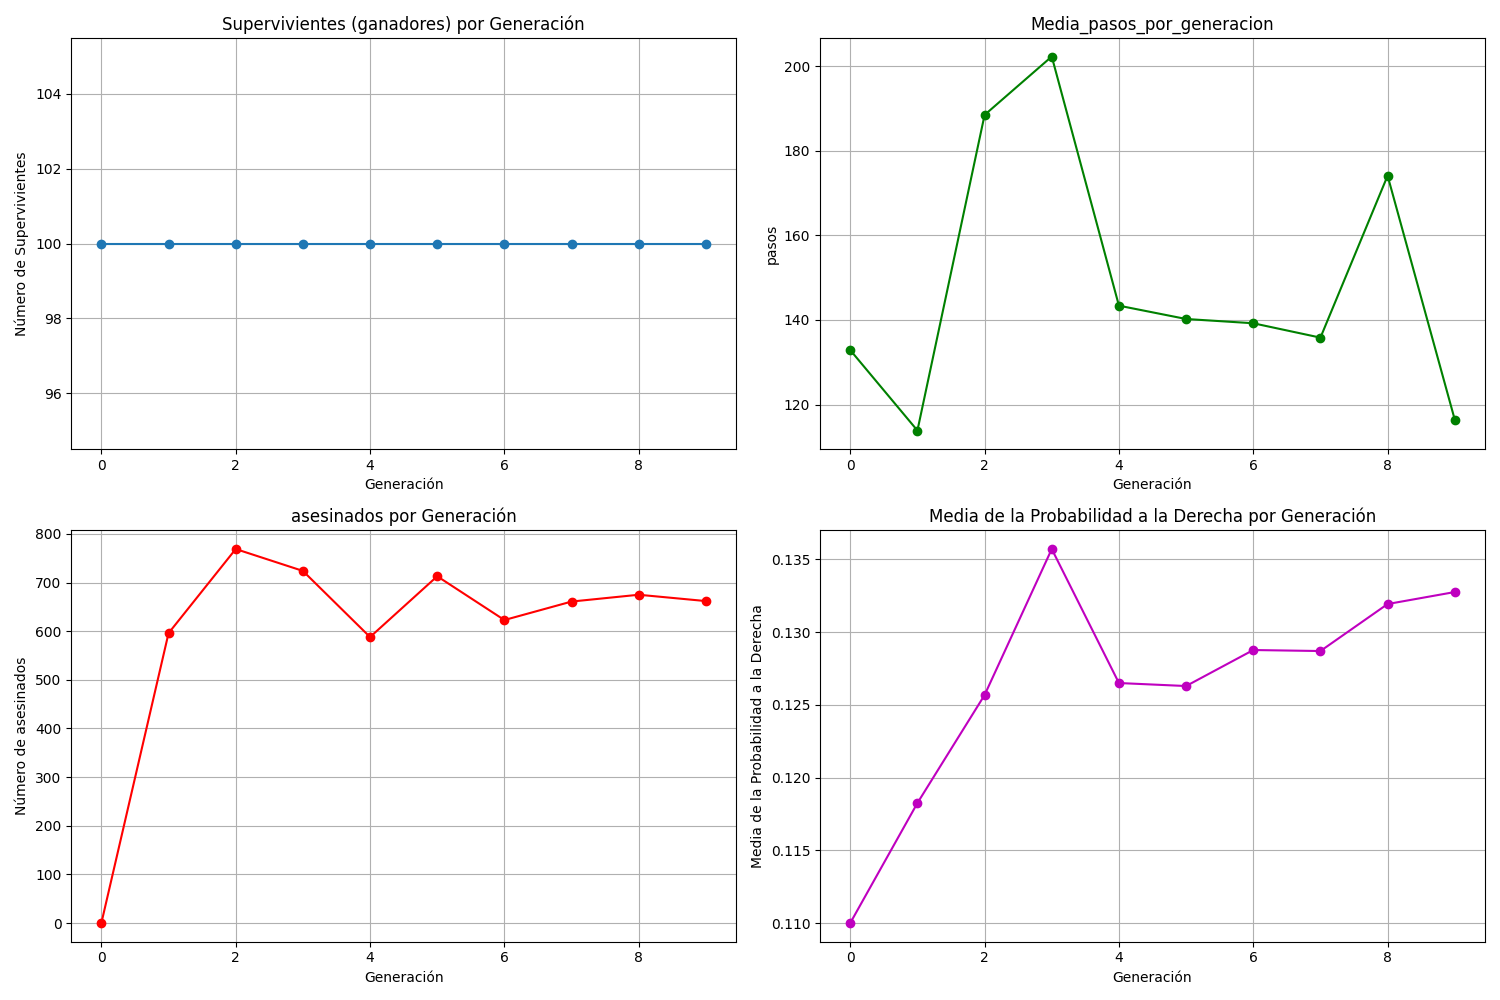
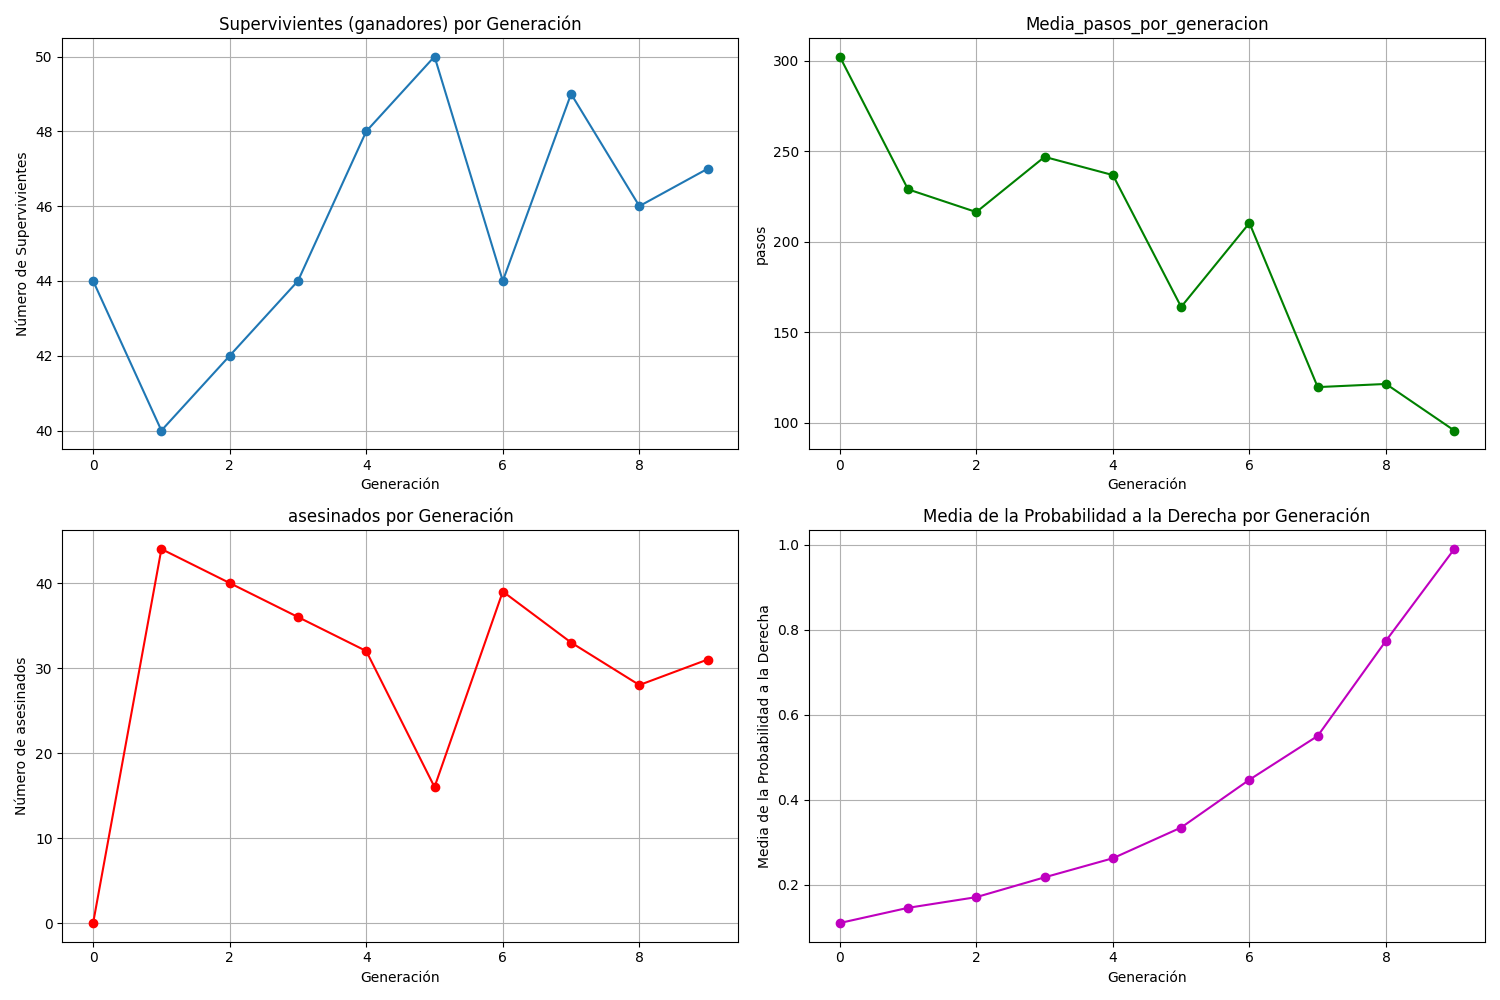
Final.

diff --git a/main.py b/main.py
@@ -54,6 +54,7 @@ class Individuo:
         # Movimientos posibles: Norte, Sur, Este, Oeste, Noreste, Noroeste, Sureste, Suroeste, No mover
         movimientos = [(0, -1*S), (0, 1*S), (1*S, 0), (-1*S, 0), (1*S, -1*S), (-1*S, -1*S), (1*S, 1*S), (-1*S, 1*S), (0, 0)]
         # Probabilidad de los movimientos
+
         probabilidades = [0.11, 0.11, self.probabilidad_derecha, 0.11, 0.11, 0.11, 0.11, 0.11, 0.12]
         # Escoger nuevo movimiento
         dx, dy = random.choices(movimientos, weights=probabilidades)[0]
@@ -157,7 +158,7 @@ def main():
 
         # Mover individuos y verificar si todos los puestos de la meta están ocupados
         move_individuals(population, grid)
-        ganadores = [(ind.id, ind.pasos, ind.probabilidad_derecha, ind.padre_id) for ind in population if ind.en_meta]
+        ganadores = [(ind.id, ind.pasos, ind.probabilidad_derecha, ind.padre_id, ind.asesino) for ind in population if ind.en_meta]
 
         if len(ganadores) >= GRID_SIZE or all(ind.en_meta for ind in population) or turno == Max_turnos: 
             # Ordenar ganadores por número de pasos y mostrar en pantalla
@@ -186,10 +187,11 @@ def main():
             # Aumentar probabilidad a la derecha de los ganadores
             for ganador in ganadores:
                 ganador[2] + proabilidad_derecha_extra
+                
 
             Numero_hijos = len(ganadores)
             restantes = population_size - Numero_hijos
-
+            
             print("Número de hijos:", Numero_hijos)
             print("Número de nuevos sin padres:", restantes)
 
@@ -200,11 +202,16 @@ def main():
                     y = random.randint(0, GRID_SIZE - 1)
                     padre1 = ganadores[i]
                     padre2 = ganadores[i + 1]
+                    if padre1[4] == True or padre2[4] == True:
+                        #print("es un hijo asesino: ")
+                        asesino =random.random() < proabilidad_asesino*2
+                        
                     probabilidad_derecha = padre1[2] + padre2[2] / 2  # Suma de las probabilidades de los padres
                     padre_id = padre1[3]  # ID del primer padre
-                    population.append(Individuo(x, y, probabilidad_derecha, padre_id))
+                    asesino = random.random() < proabilidad_asesino * 2 
+                    population.append(Individuo(x, y, probabilidad_derecha, padre_id, asesino))
                     Numero_hijos -= 1
-
+            #print("hijos generados: ",len(population))
             # Generar nuevos individuos sin padres
             for i in range(int(restantes)):
                 x = random.randint(0, GRID_SIZE - 2)
@@ -236,6 +243,5 @@ def main():
         f.write(f"media_probabilidad_derecha_por_generacion = {media_probabilidad_derecha_por_generacion}\n")
 
     pygame.quit()
-
 if __name__ == "__main__":
     main()
